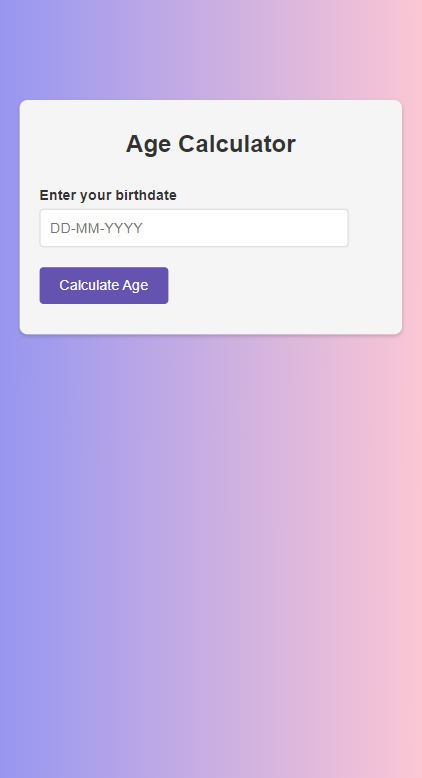
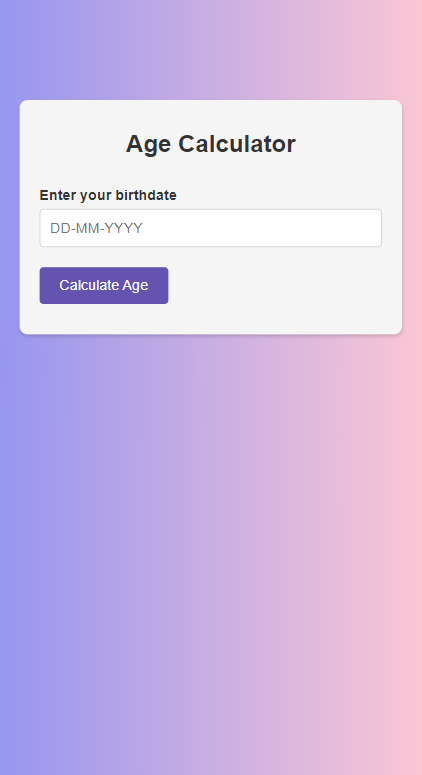
add README.md

diff --git a/Age-Calculator-App/style.css b/Age-Calculator-App/style.css
@@ -37,7 +37,7 @@ label {
 }
 
 input[type="text"] {
-    width: 90%;
+    width: 100%;
     padding: 10px;
     font-size: 1rem;
     border-radius: 4px;

diff --git a/Age-Calculator-App/README.md b/Age-Calculator-App/README.md
@@ -1,10 +1,10 @@
-## Age-Calculator-Aplication
+## Age-Calculator-Application
 
 <br>
 
 ### Link
 
-- [Live Site](https://linen220-random-password-generator.netlify.app/)
+- [Live Site]()
 
 <br>
 
